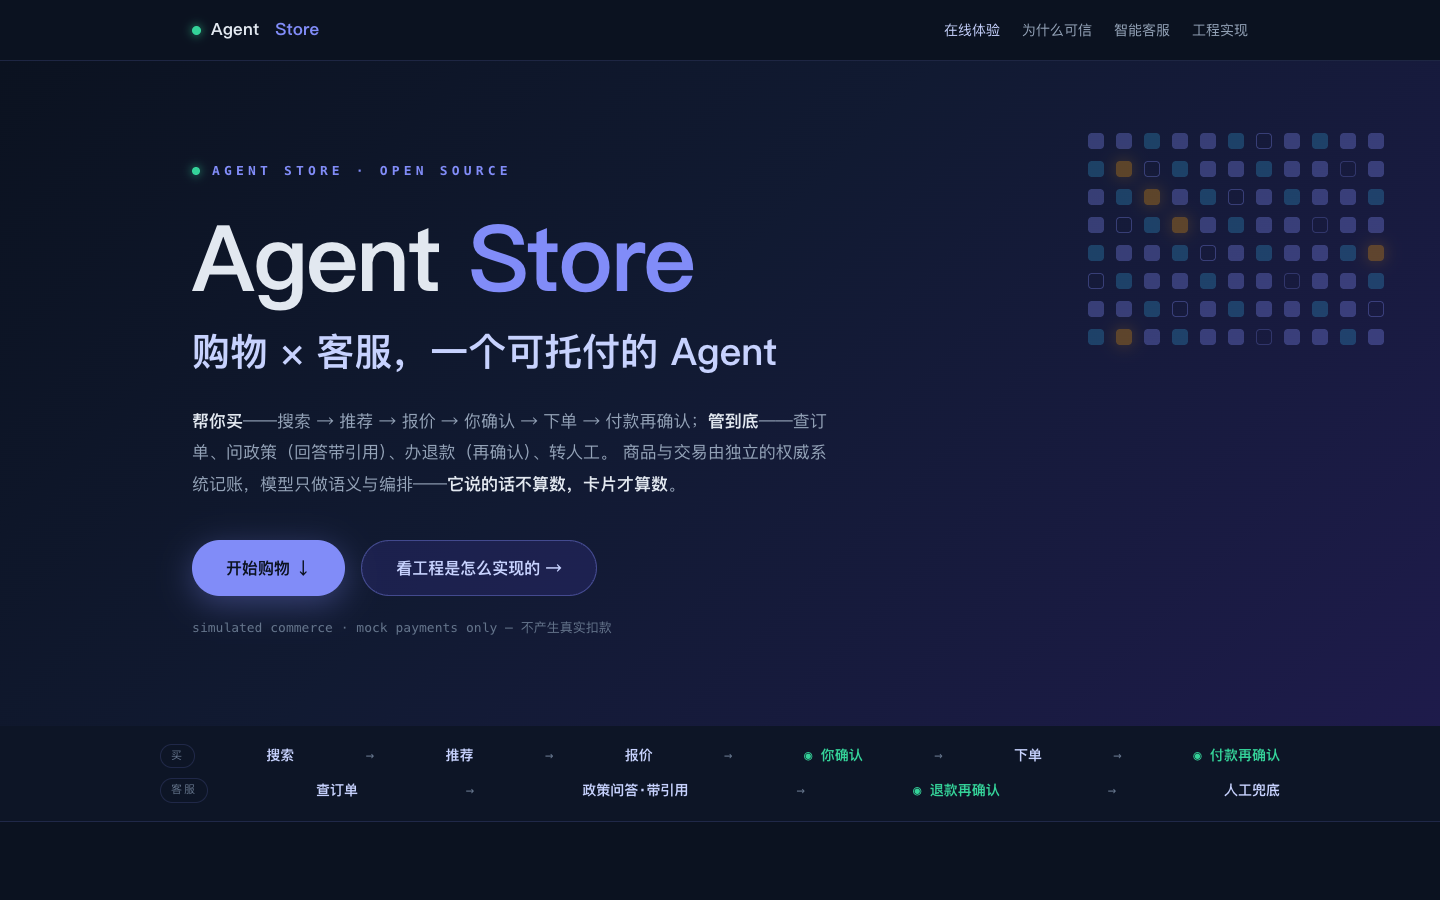
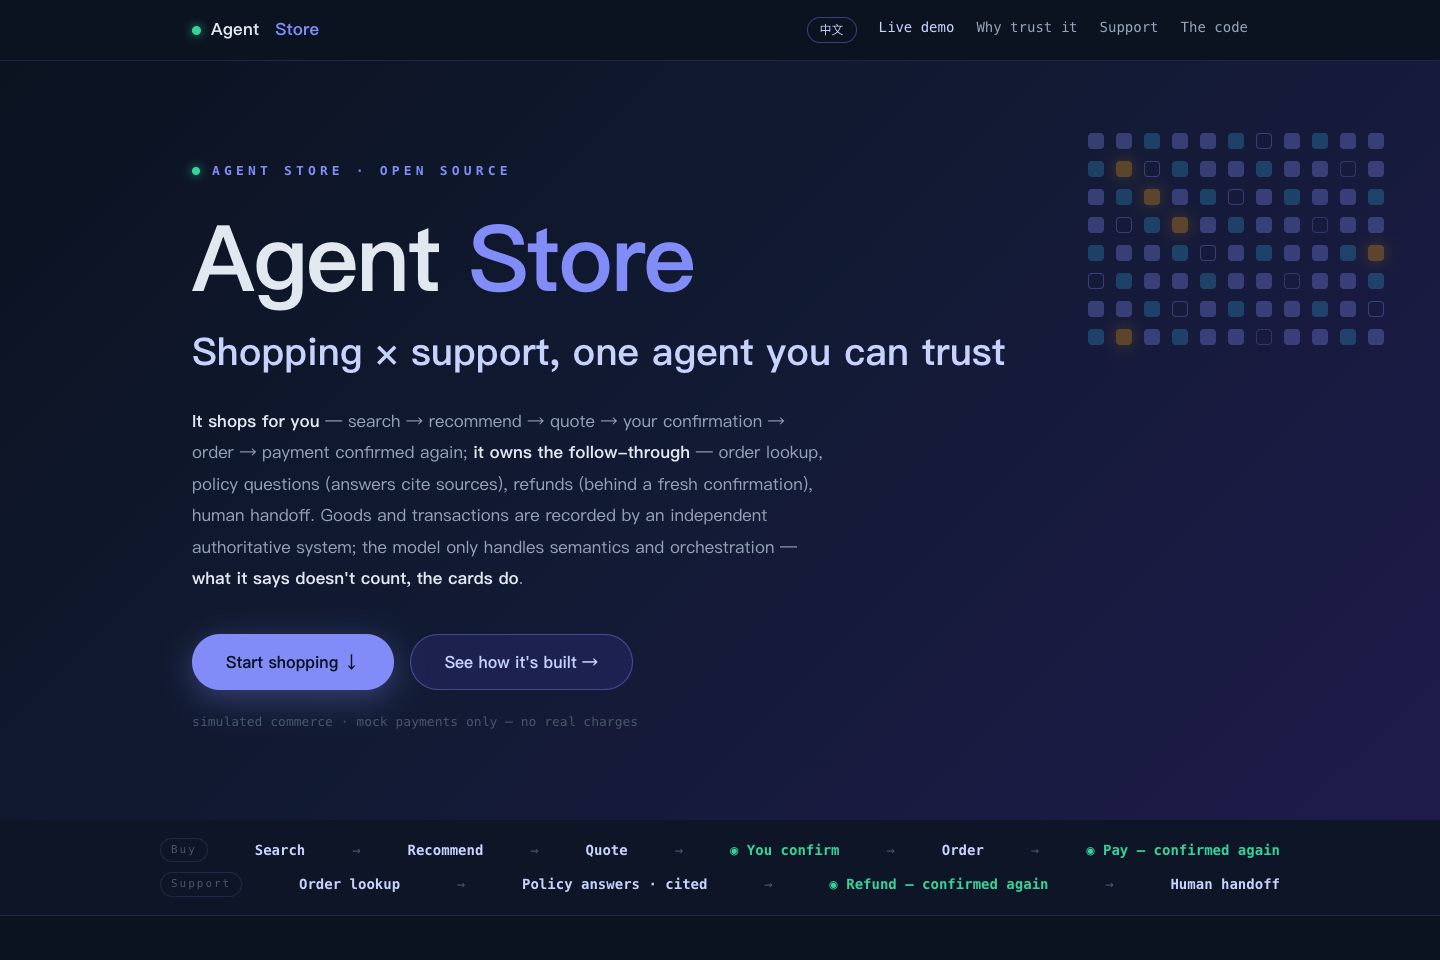
docs(readme): finish the hero pipeline strip and pin local images
The hero shot was captured at 900px deep, cutting the support row of the
confirmation-gate pipeline strip at the bottom edge. Recaptured at 960px
from the exact image the CI docker gate builds, so both rows (buy and
support) render complete. Also pins README local image references
(markdown and <img> forms) to files that exist — a renamed screenshot or
missed git add now fails the suite instead of shipping a broken image.

diff --git a/app/tests/unit/test_docs_hygiene.py b/app/tests/unit/test_docs_hygiene.py
@@ -82,6 +82,21 @@ def test_readme_python_floor_matches_pyproject() -> None:
     )
 
 
+def _readme_local_image_refs() -> set[str]:
+    """Local image paths README references, markdown and HTML ``<img>`` forms."""
+    text = README.read_text()
+    refs = re.findall(r"<img[^>]+src=\"([^\"]+)\"", text)
+    refs += re.findall(r"!\[[^\]]*\]\(([^)\s]+)\)", text)
+    return {r for r in refs if not r.startswith(("http://", "https://"))}
+
+
+def test_readme_local_images_exist() -> None:
+    refs = _readme_local_image_refs()
+    assert refs, "README references no local image — the hero/demo shots dropped?"
+    missing = [r for r in sorted(refs) if not (REPO_ROOT / r).is_file()]
+    assert not missing, f"README references images that do not exist: {missing}"
+
+
 def _zh_requirements_line() -> str:
     """The ZH quickstart condenses Requirements into one bolded line."""
     text = README.read_text()

diff --git a/CHANGELOG.md b/CHANGELOG.md
@@ -115,6 +115,12 @@ and this project adheres to [Semantic Versioning](https://semver.org/spec/v2.0.0
   contrast failures), and the `--primary` token now carries actual Indigo 600
   instead of the mislabeled Indigo 400 value (white-on-primary ≈ 6.3:1,
   fixing the CTA button).
+- The README hero screenshot is recaptured at a 960px-deep viewport so both
+  confirmation-gate pipeline rows (buy and support) render fully instead of
+  the support row being cut at the bottom edge, and a docs-hygiene pin now
+  fails the suite when any README local image reference points at a file
+  that does not exist — screenshots are binary assets, so a rename or a
+  missed `git add` would otherwise ship a broken image silently.
 
 ### Fixed
 
